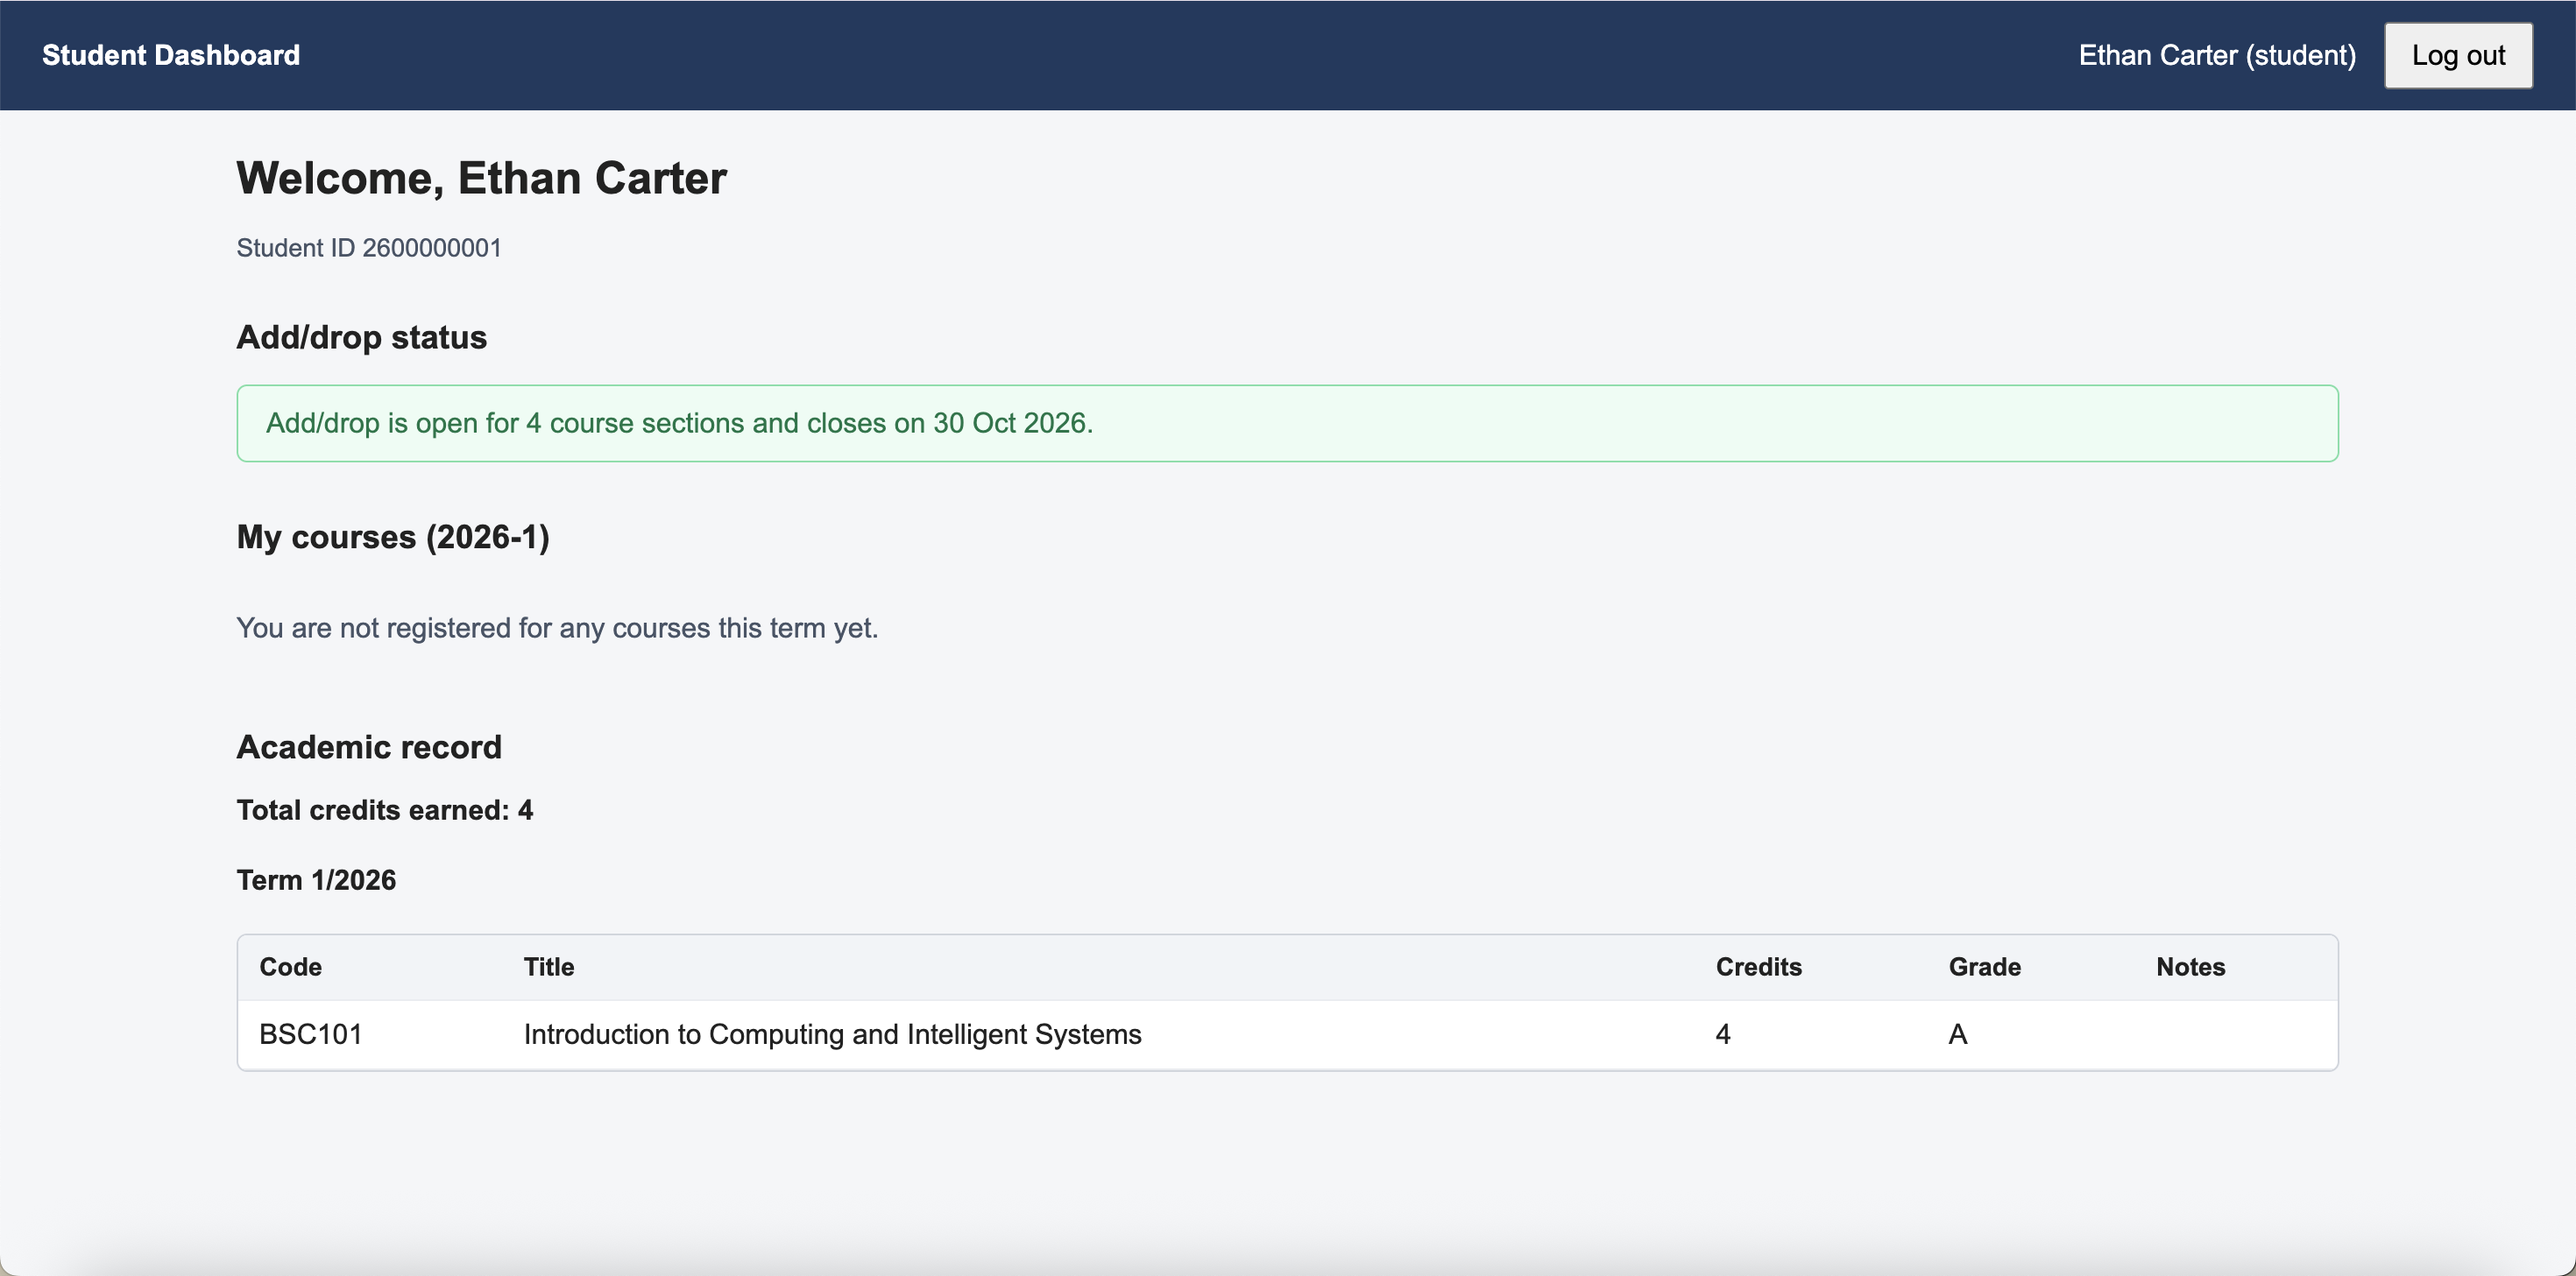
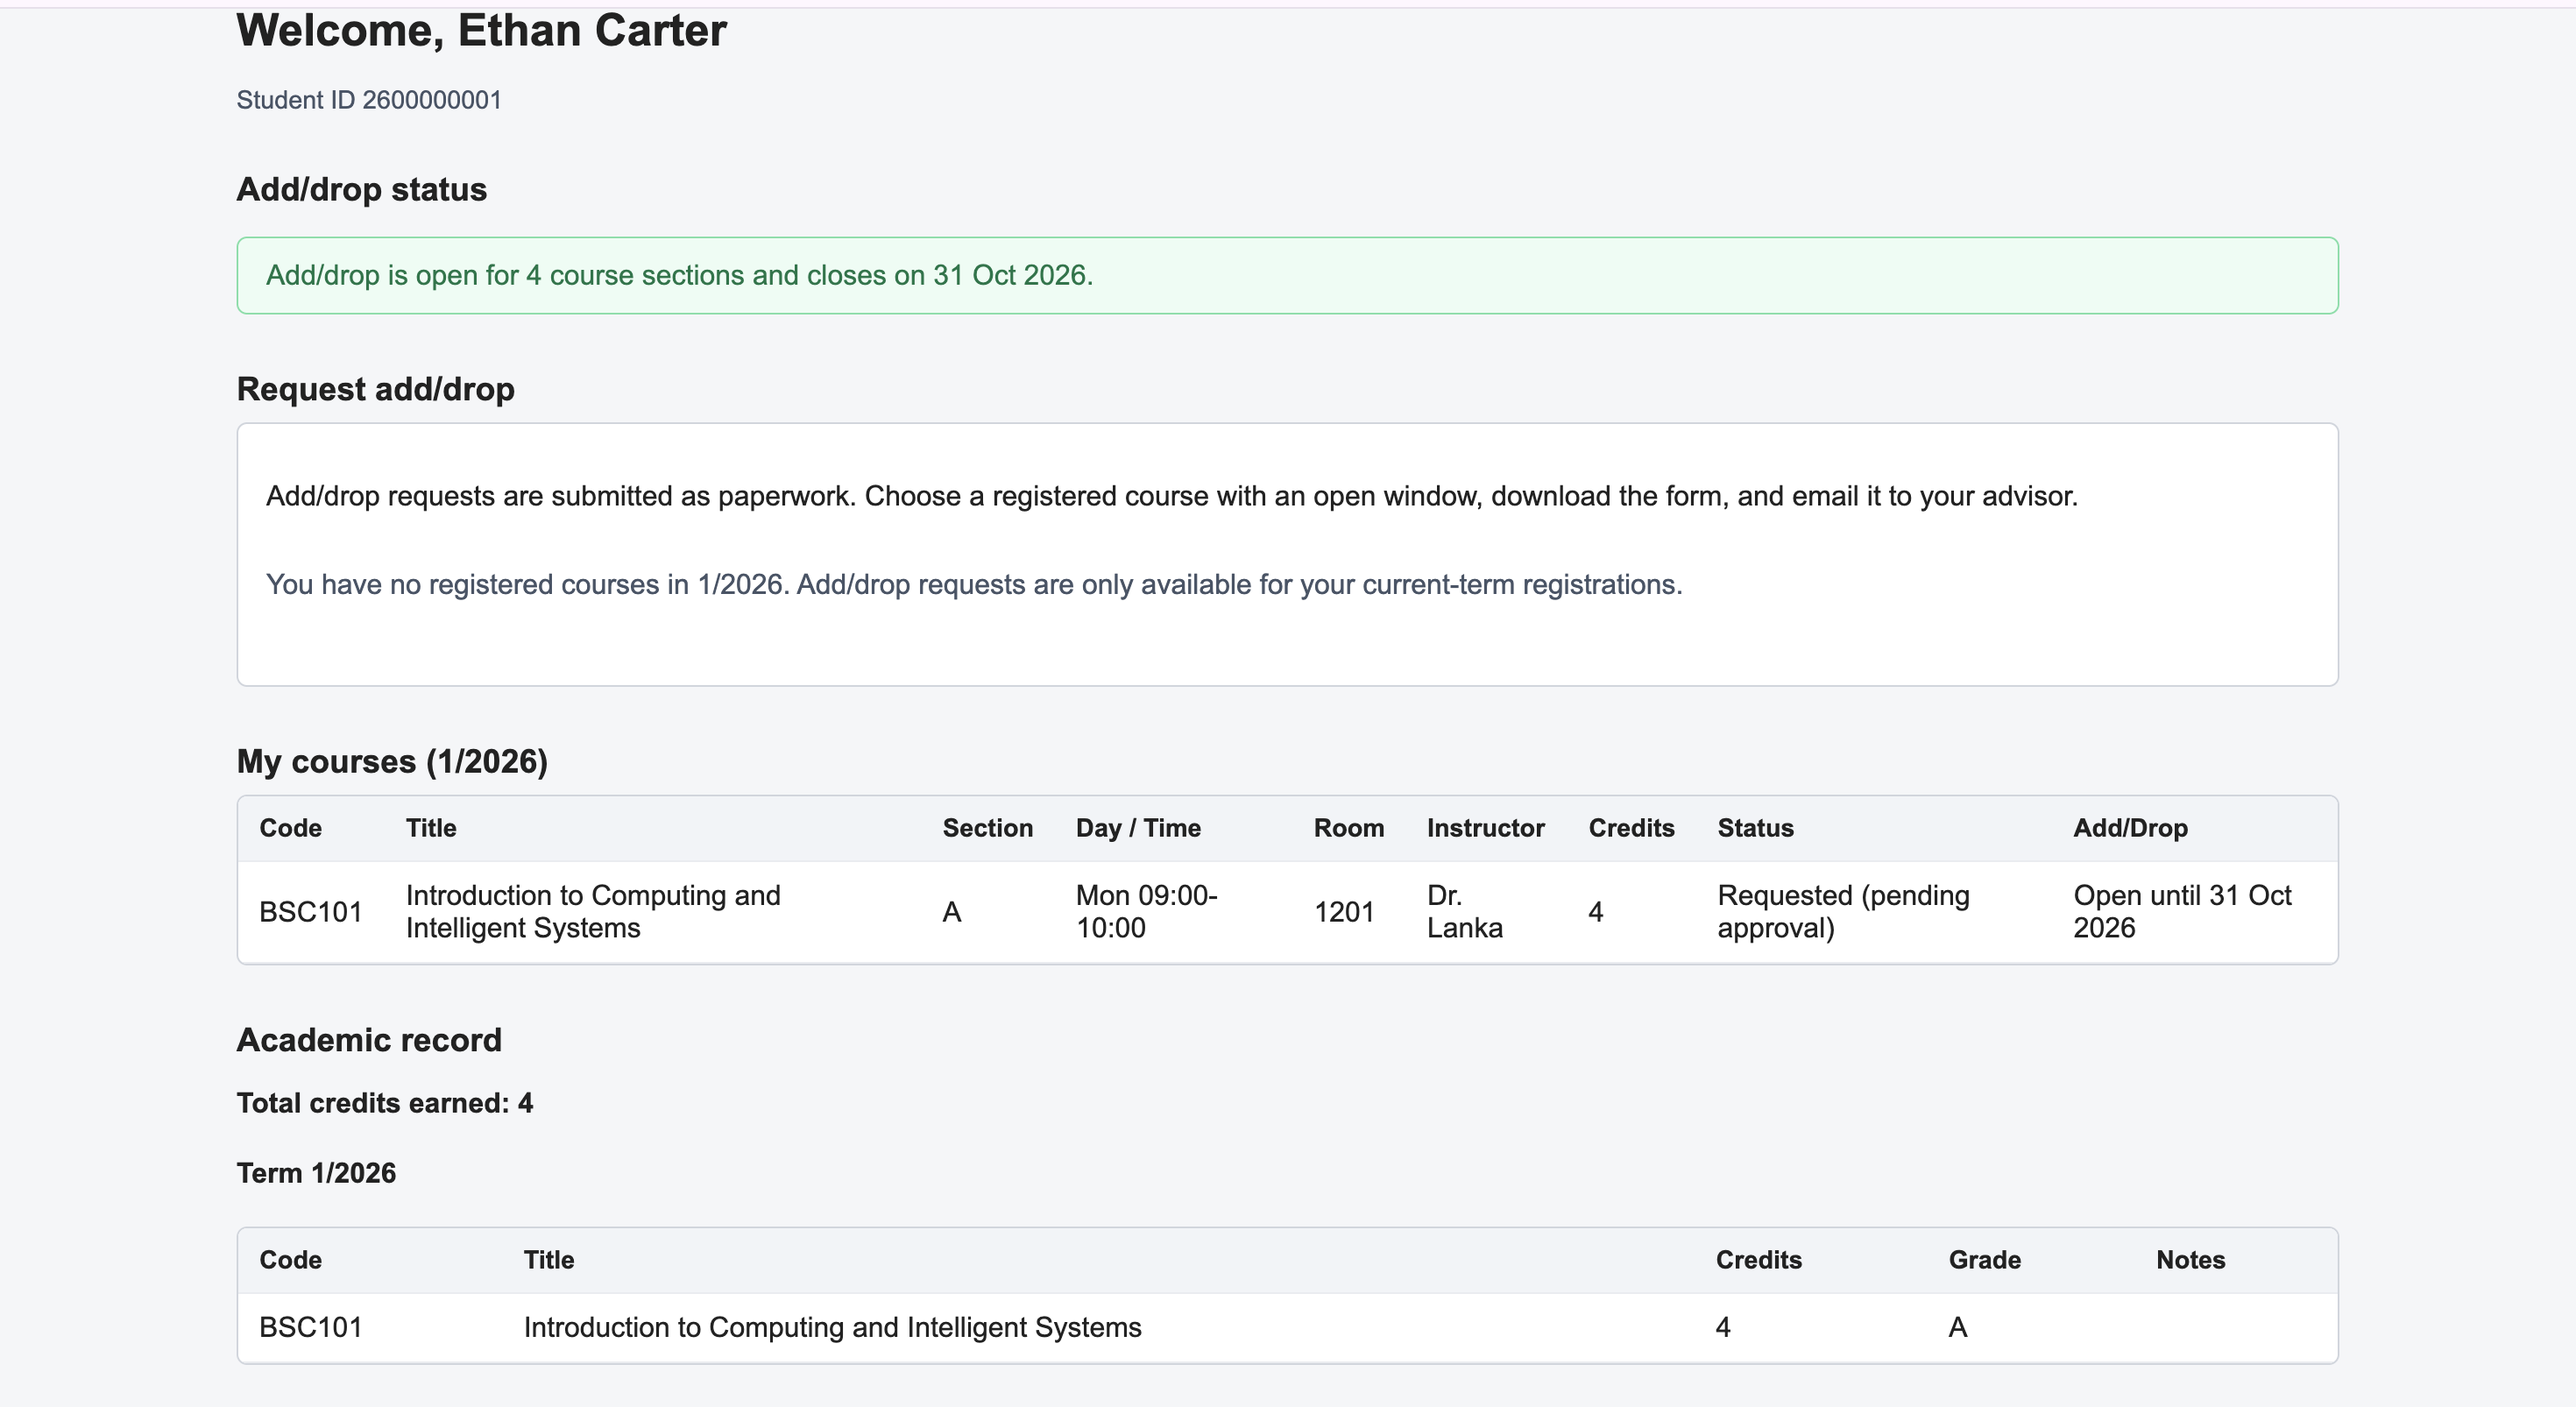
Update more on README and add dashboard screenshots

diff --git a/README.md b/README.md
@@ -206,18 +206,28 @@ The seeded databased provide test accounts for each user role
 | Role | Email | Password |
 |---|---|---|
 | Admin | admin@example.com | ChangeMe123! |
+| Admin | - admin@university.edu | password123! |
 | Advisor | advisor@example.com | ChangeMe123! |
+| Advisor | advisor1@university.edu | password123 |
 | Student | 2600000001@students.stamford.edu | ChangeMe123! |
+| Student | 2600000015@students.stamford.edu  | ChangeMe123! |
 
 ## Dashboard Screenshots
 ### Admin Dashboard
 ![Admin Dashboard](docs/screenshots/Admin-dashboard.png)
+![Admin Dashboard](docs/screenshots/Admin2-dashboard.png)
+![Admin Dashboard](docs/screenshots/Admin3-dashboard.png)
 
 ### Advisor Dashboard
 ![Advisor Dashboard](docs/screenshots/Advisor-dashboard.png)
+![Advisor Dashboard](docs/screenshots/Advisor2-dashboard.png)
+![Advisor Dashboard](docs/screenshots/Advisor3-dashboard.png)
+![Advisor Dashboard](docs/screenshots/Advisor4-dashboard.png)
 
 ### Student Dashboard
 ![Student Dashboard](docs/screenshots/Student-dashboard.png)
+![Student Dashboard](docs/screenshots/Student2-dashboard.png)
+![Student Dashboard](docs/screenshots/Student3-dashboard.png)
 
 ## Feature Completion Status
 
